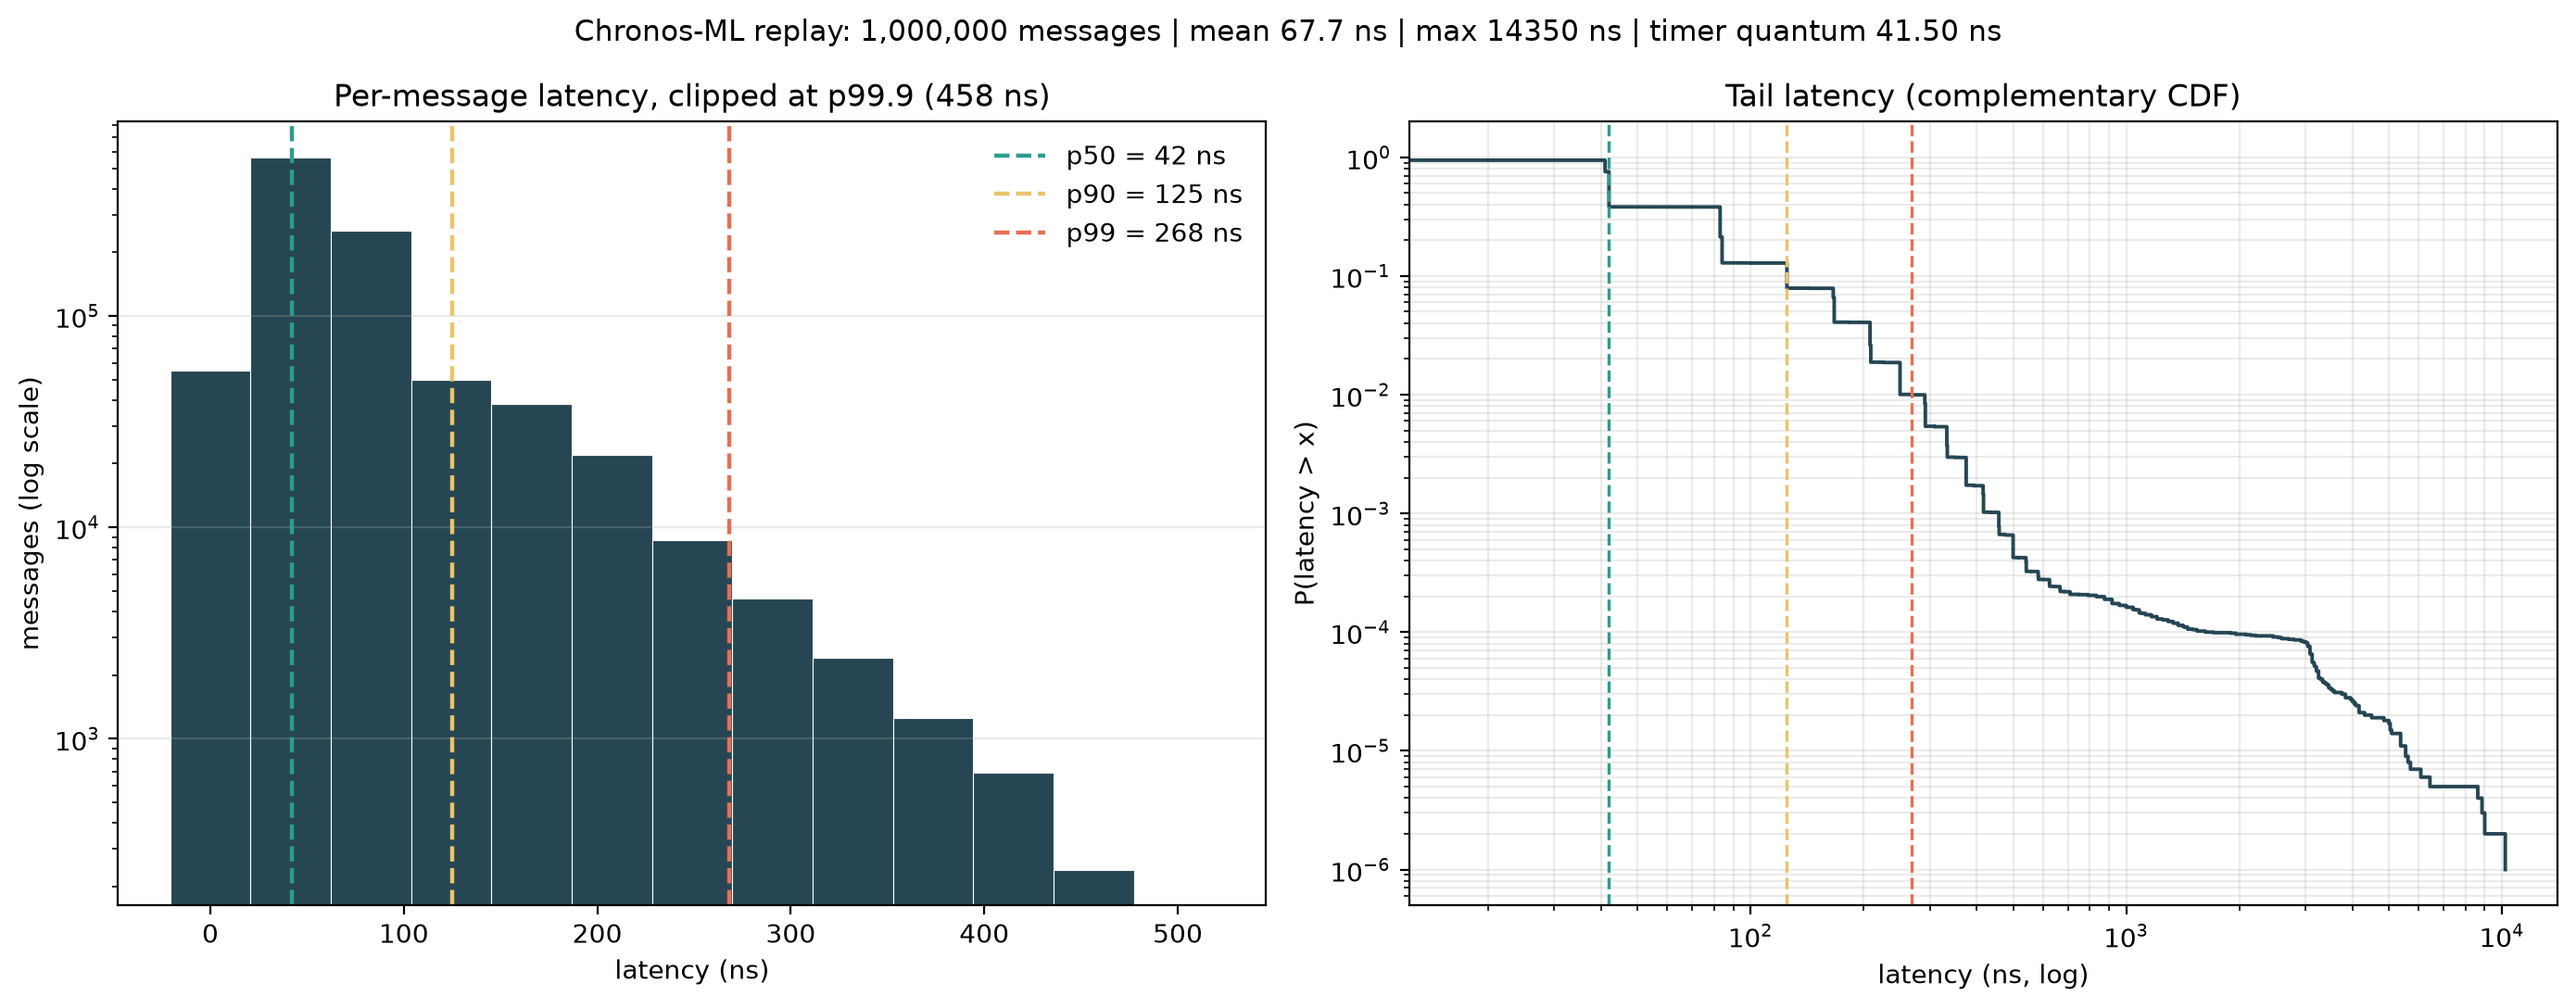
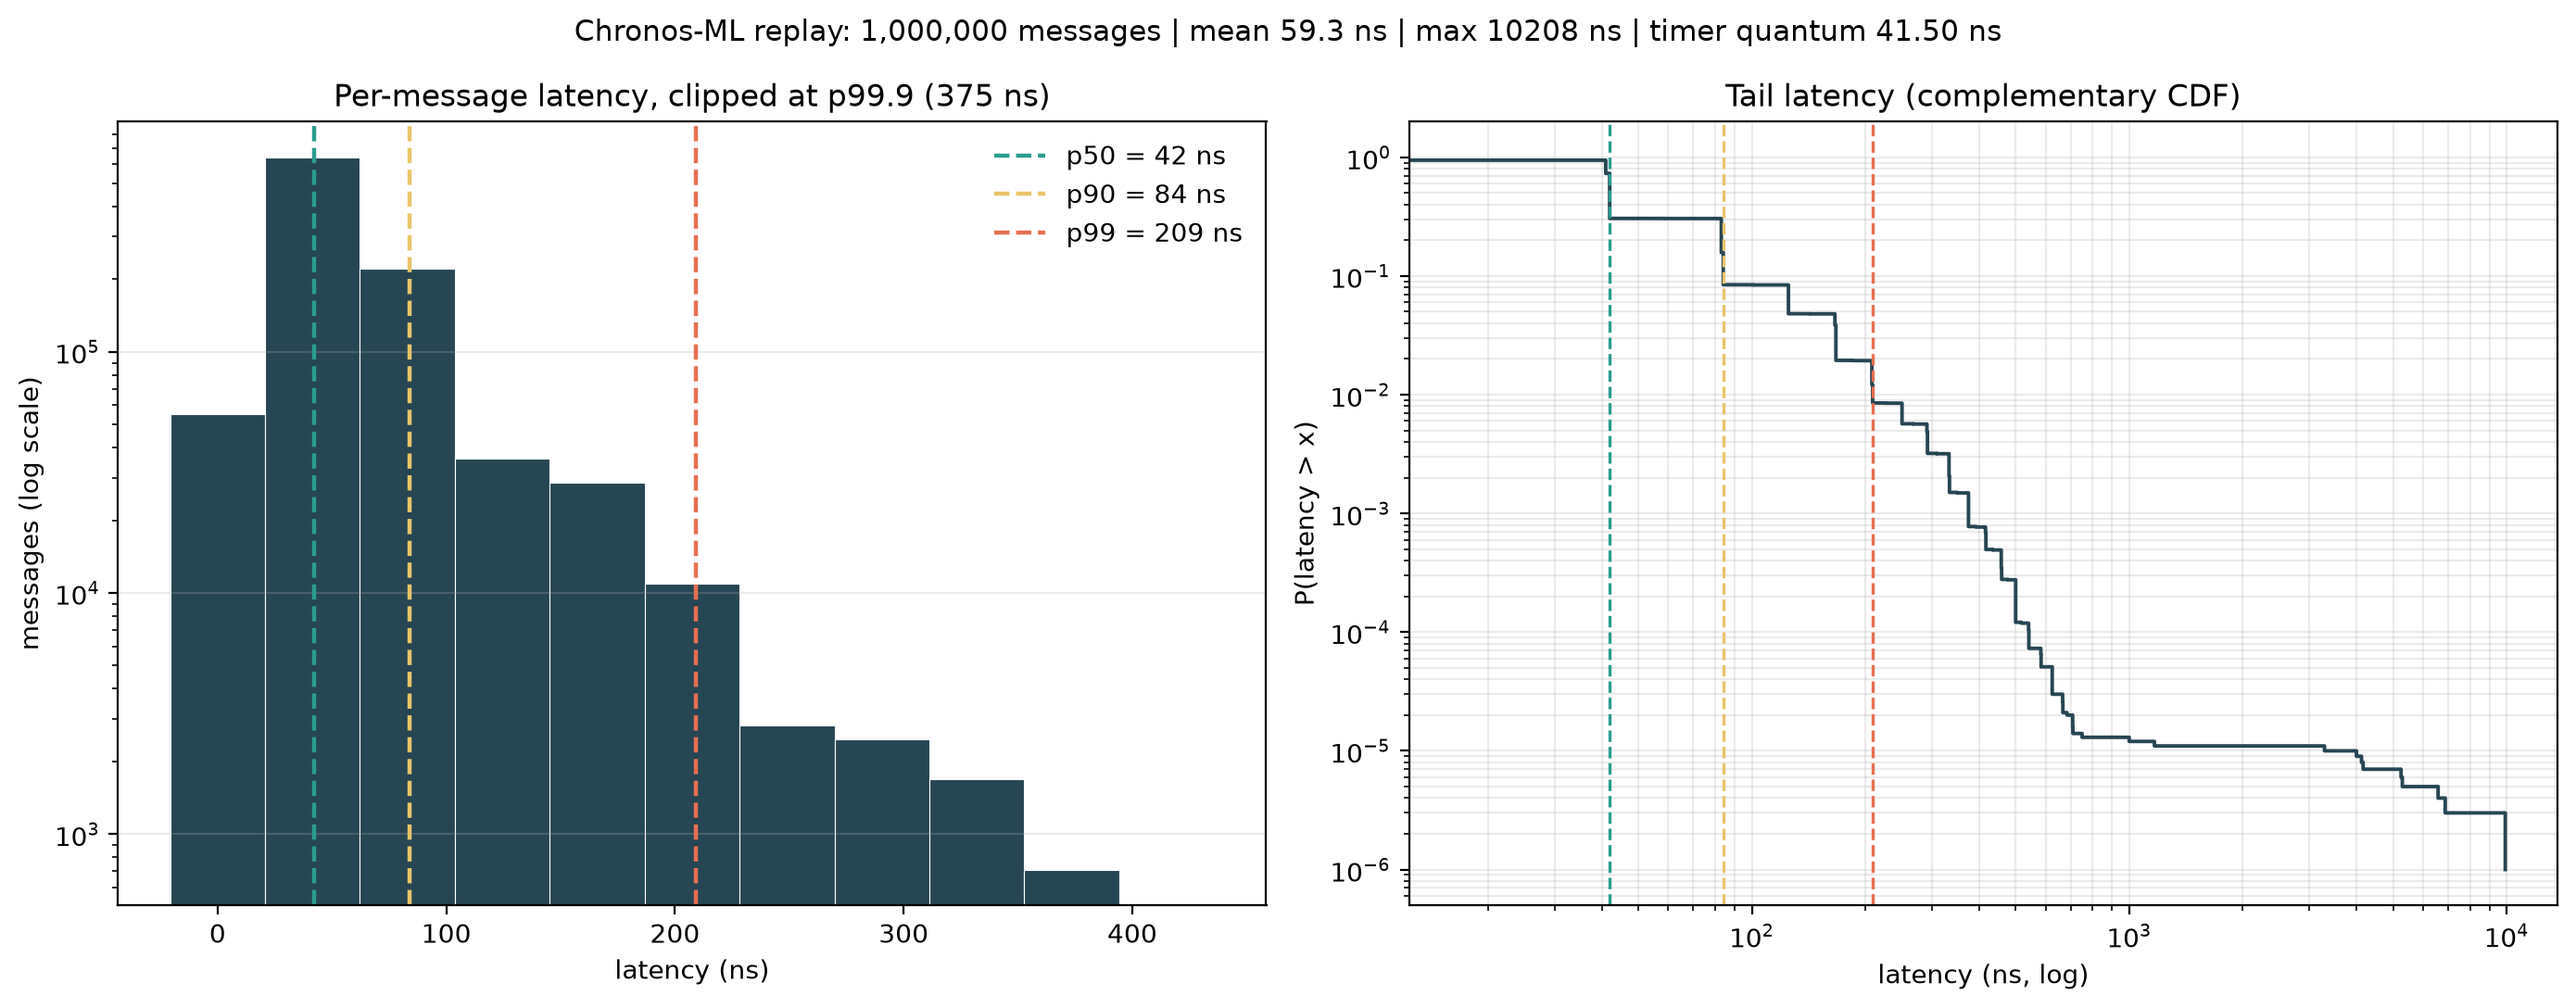
docs(benchmarks): add M1 vs M4 Pro comparison and M1 replay demo

diff --git a/README.md b/README.md
@@ -2,7 +2,7 @@
 
 A zero-allocation, low-latency limit order book (LOB) matching engine in C++20, with an inline order-book-imbalance signal, built and measured on Apple Silicon.
 
-On an Apple M4 Pro, the replay harness streams **1,000,000 binary wire messages** from an ingress thread through a lock-free queue into the matching engine at **~12.4M messages/s**, with a per-message latency (decode + match + book update) of **p50 ≈ 42 ns, p99 ≈ 268 ns, p99.9 ≈ 458 ns**.
+On an Apple M4 Pro, the replay harness streams **1,000,000 binary wire messages** from an ingress thread through a lock-free queue into the matching engine at **~15.2M messages/s**, with a per-message latency (decode + match + book update) of **p50 ≈ 42 ns, p99 ≈ 209 ns, p99.9 ≈ 375 ns**. The same commit on a 2020 M1 runs at ~7.1M messages/s ([comparison](#m4-pro-vs-m1)).
 
 ![Terminal dashboard during a 1M-message replay](docs/replay_demo.gif)
 
@@ -57,7 +57,7 @@ Each `PriceLevel` keeps an incrementally maintained `resting_qty`, updated on ev
 
 `SPSCQueue<T, Capacity>` decouples ingress from matching:
 
-- **False-sharing isolation:** `head_`, `tail_`, and the storage ring each get their own `alignas(128)` cache line. 128 bytes is the line size the M4 Pro reports (`hw.cachelinesize`), not the 64 bytes common on x86.
+- **False-sharing isolation:** `head_`, `tail_`, and the storage ring each get their own `alignas(128)` cache line. 128 bytes is the line size both the M4 Pro and M1 report (`hw.cachelinesize`), not the 64 bytes common on x86.
 - **Minimal ordering:** each side loads its own index `relaxed`, loads the other side's index `acquire`, and publishes with `release`. There is no `seq_cst` anywhere on the path.
 - **Power-of-two masking:** wraparound is `index & (Capacity - 1)`, not `%`.
 - **Zero-copy consume:** `front()` / `pop_front()` let the matcher decode a packet in place inside the ring slot.
@@ -80,7 +80,7 @@ Verified by a two-thread stress test that moves 1,000,000 sequenced items with z
 
 macOS has no `sched_setaffinity`, `taskset`, or `isolcpus`. The XNU scheduler keeps thread placement for itself so it can balance P-cores, E-cores, and thermals, and exposes *intent* to applications instead of hard pinning.
 
-| Utility | Mechanism | Result on M4 Pro / macOS 15.5 |
+| Utility | Mechanism | Result on M4 Pro (macOS 15.5) and M1 (macOS 14.6.1) |
 |---|---|---|
 | `elevate_thread_qos()` | `pthread_set_qos_class_self_np(QOS_CLASS_USER_INTERACTIVE)` | **Accepted.** The strongest scheduling-priority signal available to user code. |
 | `set_thread_name()` | `pthread_setname_np` (calling thread only on macOS) | **Accepted.** Threads appear as `chronos-ingress` / `chronos-matcher` in Instruments and lldb. |
@@ -108,34 +108,54 @@ The weights are hand-set placeholders, not a trained model; see [Limitations](#l
 
 ## Performance benchmarks
 
-**Environment:** Apple M4 Pro (8P + 4E cores, 16 MB L2 per P-cluster, 128-byte cache line), macOS 15.5, Apple clang 17, `-O3 -march=native`, Release build.
+**Build:** commit `fc4596a`, Release (`-O3 -march=native`), compiled natively on each machine.
+
+**Method:** 5 unpaced runs of the replay per machine. Throughput is the median of the 5; percentiles come from run 3's full latency file via `plot_latency.py` (run 3 was within 1% of the median throughput on both machines). Both machines were plugged in, running from an editor terminal with everyday apps open, so these are typical-desktop numbers, not an isolated lab setup.
 
 ### End-to-end market replay — [`src/replay_harness.cpp`](src/replay_harness.cpp)
 
 1,000,000 pre-generated, deterministic ITCH-style messages (about 30% aggressive), streamed ingress thread → `SPSCQueue` → matching thread. Latency is measured per message around **decode + `add_order` (match, book update, inference hook)**. Dashboard rendering is excluded from the timing window.
 
-| Metric | Value |
-|---|---|
-| Throughput | **~12.4M messages/s** (1M messages in ~0.081 s) |
-| Rejected orders | 0 |
-| p50 | 42 ns |
-| p90 | 125 ns |
-| p99 | 268 ns |
-| p99.9 | 458 ns |
-| max | ~14 µs |
-| Live price levels at end | ~600 |
+### M4 Pro vs M1
+
+| Metric | M4 Pro | M1 | M4 Pro advantage |
+|---|---|---|---|
+| Throughput | **15.2M msg/s** | **7.1M msg/s** | 2.1× |
+| p50 | 42 ns | 125 ns | ~3× (M4 Pro is at the timer floor) |
+| p90 | 84 ns | 167 ns | 2.0× |
+| p99 | 209 ns | 500 ns | 2.4× |
+| p99.9 | 375 ns | 875 ns | 2.3× |
+| mean | 59 ns | 132 ns | 2.2× |
+| max (single worst message) | ~10 µs | ~30 µs | n/a |
+| Rejected orders | 0 | 0 | |
+| Throughput spread across 5 runs | 12.2–15.3M (first run slower, the rest within 1.3%) | 7.00–7.11M | |
+
+| Machine | M4 Pro | M1 |
+|---|---|---|
+| Cores | 8P + 4E | 4P + 4E |
+| L2 per P-cluster | 16 MB | 12 MB |
+| Cache line | 128 B | 128 B |
+| Timer | 24 MHz | 24 MHz |
+| macOS | 15.5 | 14.6.1 |
+| Compiler | Apple clang 17 | Apple clang 15 |
+
+The same code, unchanged, runs about 2.1–2.4× faster on the M4 Pro across throughput and the tail. Both chips report 128-byte cache lines, so the queue's `alignas(128)` padding is correct on both. **The comparison is not purely silicon:** the M1 is also two macOS releases and two Apple clang major versions behind, and some of the gap may come from the compiler.
+
+![Terminal dashboard on the M1](docs/replay_demo_m1.gif)
+
+*The same paced replay on the M1 (`--pace 400`). The book state at each checkpoint is identical to the M4 Pro run, because the feed is deterministic; only the timing differs.*
 
 ### Component benchmarks — [`tests/test_benchmark.cpp`](tests/test_benchmark.cpp)
 
-| Scenario | Result |
-|---|---|
-| Resting insert, 10,000 orders across 500 levels | p50 ≈ 42–83 ns, p99 ≈ 84–125 ns |
-| Single taker sweeping ~250 levels / 5,000 resting orders (50,000 units) | ≈ 40–70 µs total (≈ 8–14 ns per resting order consumed) |
+| Scenario | M4 Pro | M1 |
+|---|---|---|
+| Resting insert, 10,000 orders across 500 levels | p50 ≈ 42 ns, p99 ≈ 84 ns | p50 ≈ 125 ns, p99 ≈ 167 ns |
+| Single taker sweeping ~250 levels / 5,000 resting orders (50,000 units) | ≈ 39–40 µs (≈ 8 ns per resting order consumed) | ≈ 99 µs (≈ 20 ns per resting order consumed) |
 
 ### Reading the distribution
 
-- **Timer resolution sets the floor.** Apple Silicon's counter runs at 24 MHz (`hw.tbfrequency`), so one tick is about 41.67 ns. A reported p50 of 42 ns means "within one tick", and the ~5% of samples at 0 ns completed inside a single tick. Sub-tick differences are not measurable with this clock, and `plot_latency.py` bins on the detected tick to avoid aliasing artifacts.
-- **The tail shoulder is the OS, not the engine.** The CCDF has a small plateau around 1–3 µs at a frequency of about 10⁻⁴. The hot path does no allocation and no locking, so this is consistent with scheduler preemption, interrupts, or first-touch page faults landing inside a sample. QoS elevation reduces how often this happens but cannot eliminate it on macOS.
+- **Timer resolution sets the floor.** Both chips' counters run at 24 MHz (`hw.tbfrequency`), so one tick is about 41.67 ns and every sample is a whole number of ticks. The M4 Pro's p50 of 42 ns means "within one tick", and about 5% of its samples read 0 ns (they finished inside a single tick), so its true median is likely somewhat lower. The M1's p50 of 125 ns is three ticks, so the M1's median gap is real, but it is still only resolved to ±1 tick. `plot_latency.py` bins on the detected tick to avoid aliasing artifacts.
+- **The tail shoulder is the OS, not the engine.** The CCDF has a small plateau between roughly 1 and 4 µs, at a frequency of about 10⁻⁵ to 10⁻⁴ depending on the run. The hot path does no allocation and no locking, so this is consistent with scheduler preemption, interrupts, or first-touch page faults landing inside a sample. QoS elevation reduces how often this happens but cannot eliminate it on macOS.
 
 Regenerate the figure yourself:
 
